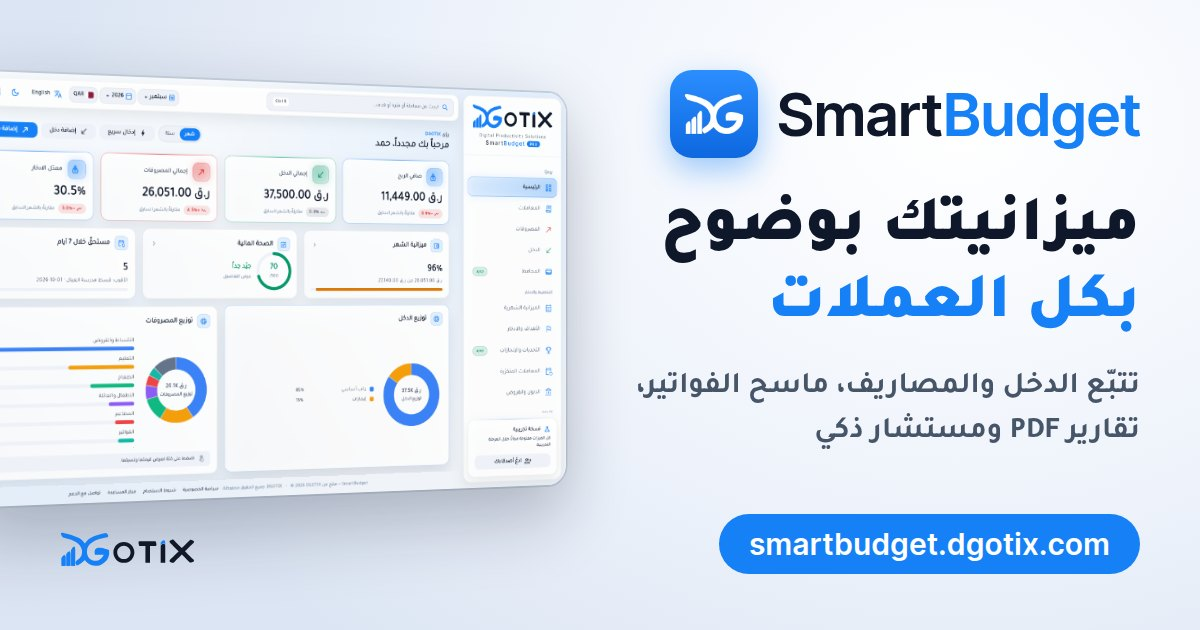
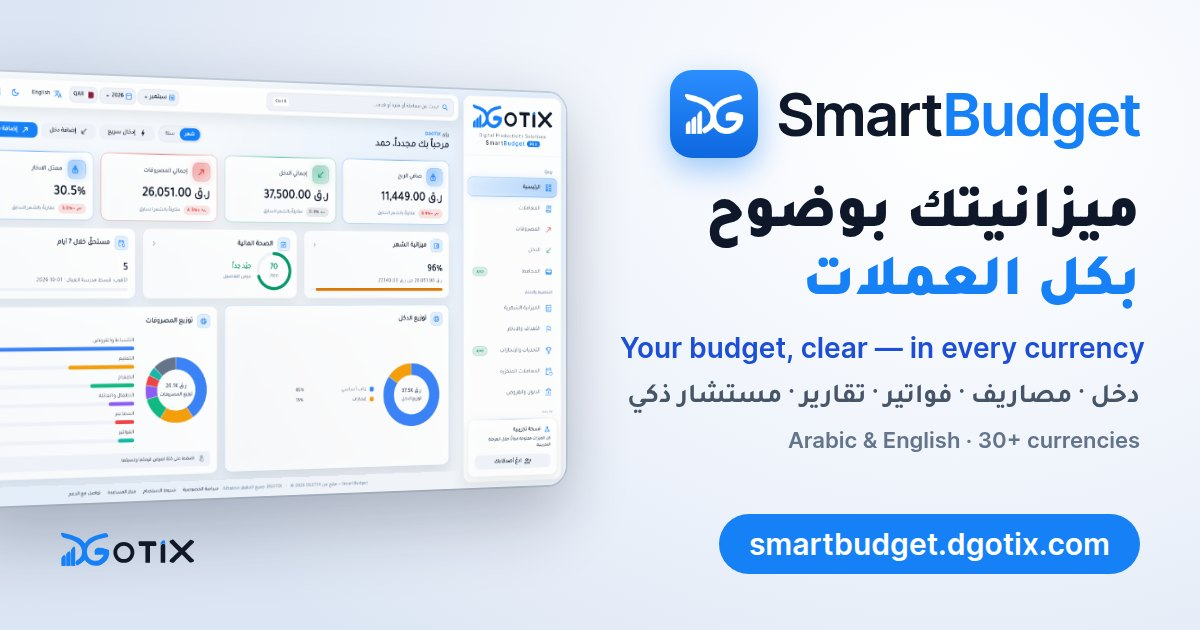
Web: English title, description and link preview alongside Arabic
The app is bilingual but the page described it only in Arabic, so English
searches and shares had nothing to match. The title, description and
Open Graph / Twitter text now carry both languages, and the preview image
adds an English line.

Claude-Session: https://claude.ai/code/session_01Ez2wrHq2p9ktRxEmQtqGeS

Changed region(s): [[0.5242, 0.3016, 0.9558, 0.7238]]

diff --git a/web/index.html b/web/index.html
@@ -26,7 +26,7 @@
     base-uri 'self';
     form-action 'self'">
   <meta content="IE=Edge" http-equiv="X-UA-Compatible">
-  <meta name="description" content="سمارت بدجت من DGOTIX: تطبيق ميزانية عربي لتتبّع الدخل والمصاريف بكل العملات، مع ماسح الفواتير، تقارير PDF، الصحة المالية ومستشار مالي بالذكاء الاصطناعي.">
+  <meta name="description" content="سمارت بدجت من DGOTIX: تطبيق ميزانية لتتبّع الدخل والمصاريف بكل العملات، ماسح الفواتير، تقارير PDF ومستشار مالي ذكي. SmartBudget: budget planner and expense tracker in Arabic &amp; English, 30+ currencies, receipt scanner, PDF reports and an AI money advisor.">
   <link rel="canonical" href="https://smartbudget.dgotix.com/">
   <!-- Link previews (WhatsApp, Facebook, X, LinkedIn). -->
   <meta property="og:type" content="website">
@@ -34,14 +34,14 @@
   <meta property="og:locale" content="ar_AR">
   <meta property="og:locale:alternate" content="en_US">
   <meta property="og:url" content="https://smartbudget.dgotix.com/">
-  <meta property="og:title" content="SmartBudget — ميزانيتك بوضوح، بكل العملات">
-  <meta property="og:description" content="تتبّع الدخل والمصاريف بأكثر من 30 عملة، ماسح الفواتير، تقارير PDF ومستشار مالي ذكي.">
+  <meta property="og:title" content="SmartBudget — ميزانيتك بوضوح، بكل العملات | Your budget, clear — in every currency">
+  <meta property="og:description" content="تتبّع الدخل والمصاريف بأكثر من 30 عملة، ماسح الفواتير، تقارير PDF ومستشار مالي ذكي. Track income and expenses in 30+ currencies, scan receipts, export PDF reports and ask an AI advisor — in Arabic or English.">
   <meta property="og:image" content="https://smartbudget.dgotix.com/og-image.jpg">
   <meta property="og:image:width" content="1200">
   <meta property="og:image:height" content="630">
   <meta name="twitter:card" content="summary_large_image">
-  <meta name="twitter:title" content="SmartBudget — ميزانيتك بوضوح، بكل العملات">
-  <meta name="twitter:description" content="تتبّع الدخل والمصاريف بأكثر من 30 عملة، ماسح الفواتير، تقارير PDF ومستشار مالي ذكي.">
+  <meta name="twitter:title" content="SmartBudget — ميزانيتك بوضوح، بكل العملات | Your budget, clear — in every currency">
+  <meta name="twitter:description" content="تتبّع الدخل والمصاريف بأكثر من 30 عملة، ماسح الفواتير، تقارير PDF ومستشار مالي ذكي. Track income and expenses in 30+ currencies, scan receipts, export PDF reports and ask an AI advisor — in Arabic or English.">
   <meta name="twitter:image" content="https://smartbudget.dgotix.com/og-image.jpg">
   <meta name="viewport" content="width=device-width, initial-scale=1.0, maximum-scale=5.0, user-scalable=yes">
 
@@ -50,7 +50,7 @@
   <meta name="apple-mobile-web-app-title" content="SmartBudget">
   <link rel="apple-touch-icon" href="icons/Icon-192.png">
 
-  <title>SmartBudget — تطبيق الميزانية الذكي | DGOTIX</title>
+  <title>SmartBudget — تطبيق الميزانية الذكي | Smart Budget Planner · DGOTIX</title>
   <link rel="icon" type="image/png" href="favicon.png"/>
   <link rel="manifest" href="manifest.json">
   <style>

diff --git a/test/web_seo_test.dart b/test/web_seo_test.dart
@@ -8,10 +8,12 @@ void main() {
   const String site = 'https://smartbudget.dgotix.com/';
   final String html = File('web/index.html').readAsStringSync();
 
-  test('the page is Arabic and describes the app', () {
+  test('the page is Arabic and describes the app in Arabic and English', () {
     expect(html, contains('<html lang="ar">'));
     expect(html, contains('<meta name="description" content="سمارت بدجت'));
     expect(html, contains('<link rel="canonical" href="$site">'));
+    // English searchers find it too.
+    expect(html, contains('SmartBudget: budget planner and expense tracker'));
   });
 
   test('link previews have a title, description and an image that exists', () {
